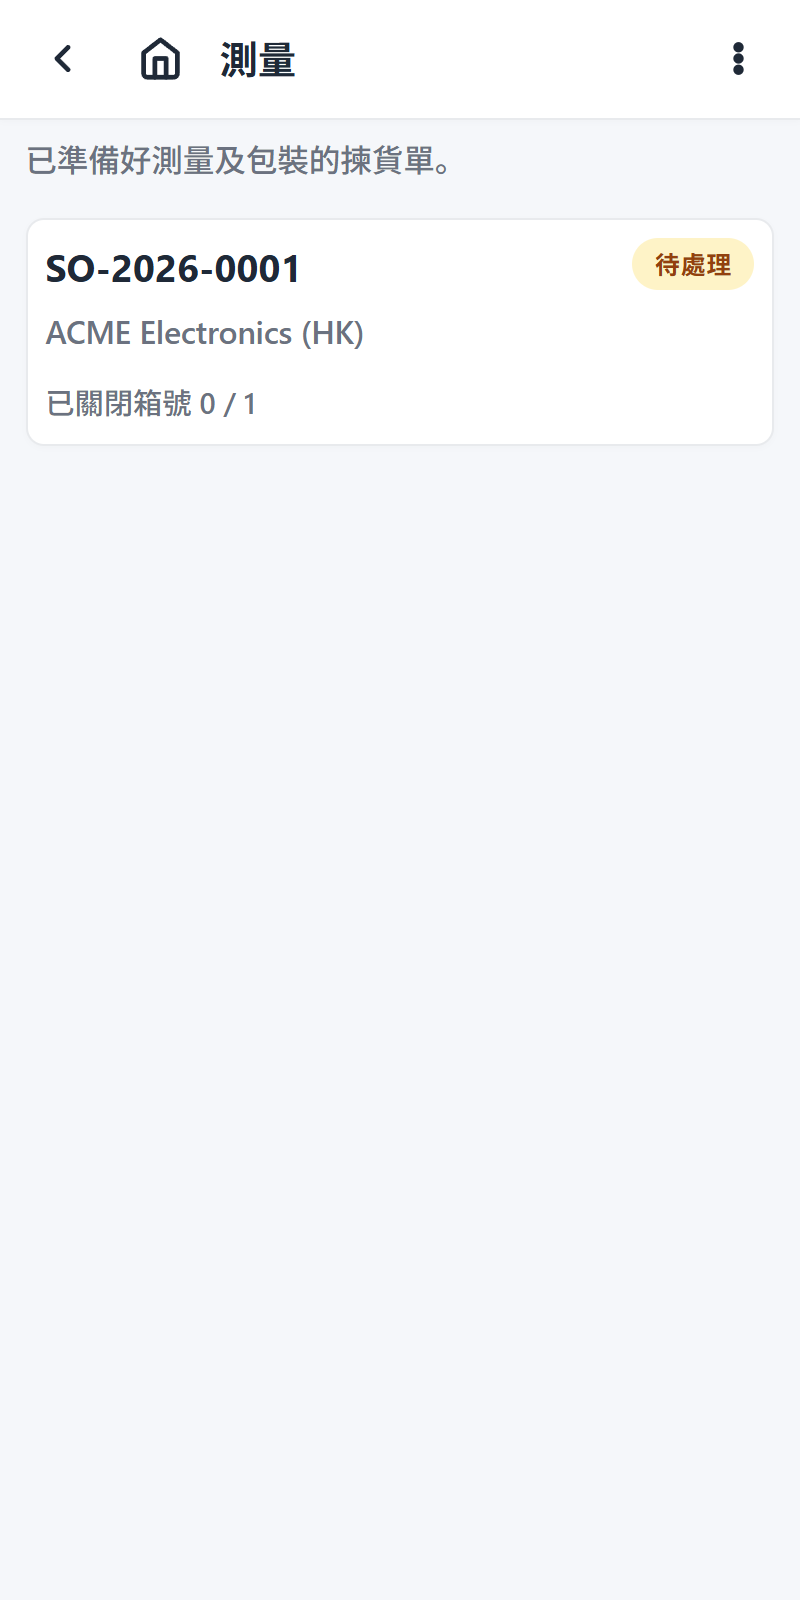
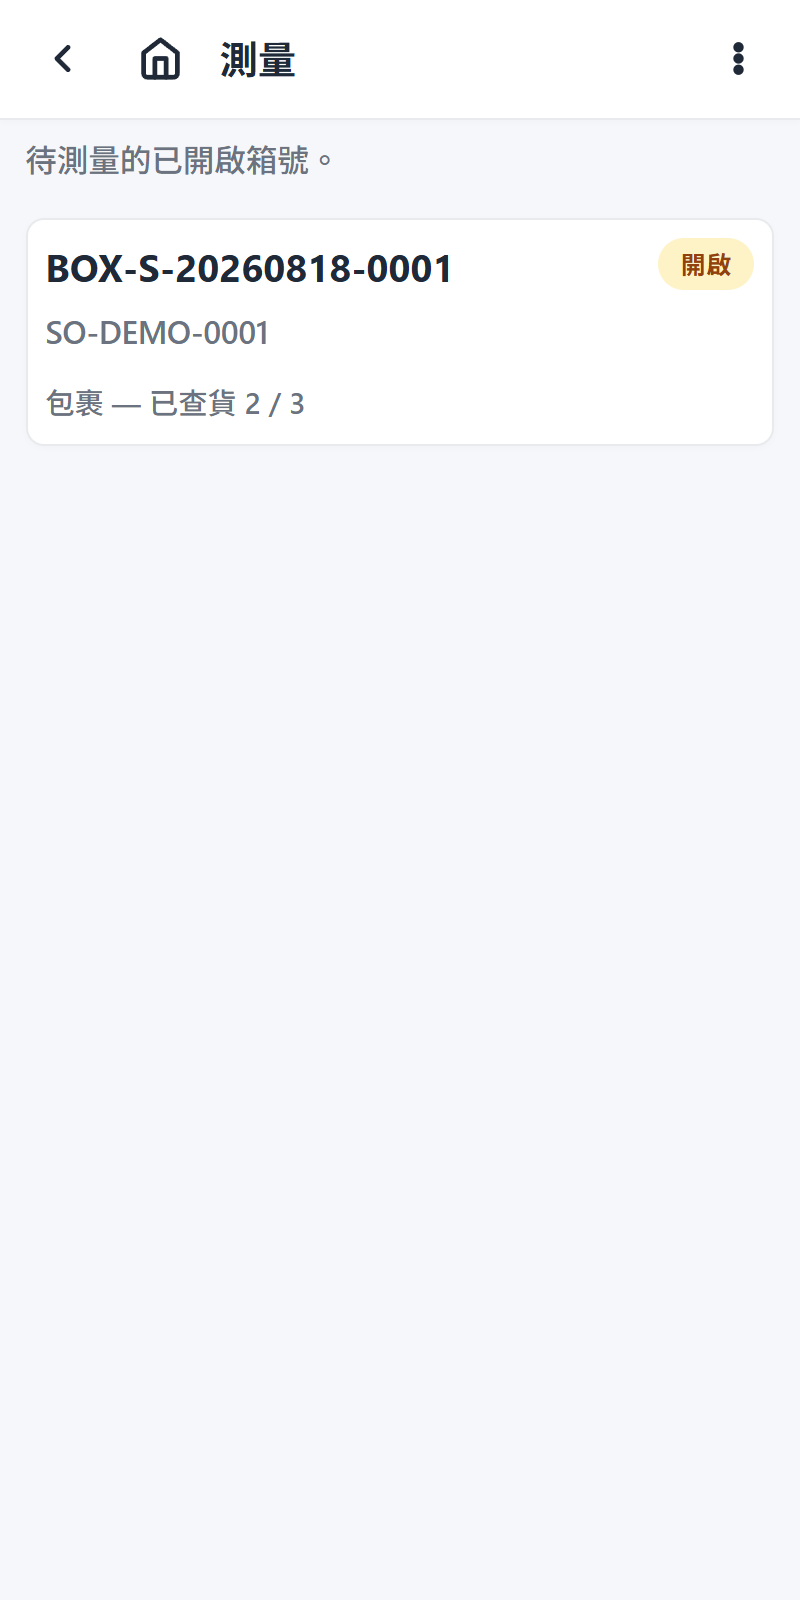
update doc

Changed region(s): [[0.0625, 0.1562, 0.5625, 0.2812], [0.0312, 0.0938, 0.5625, 0.125], [0.7812, 0.125, 0.9062, 0.1875]]

diff --git a/docs/app-docs/user-menu/user-menu-zh-HK.html b/docs/app-docs/user-menu/user-menu-zh-HK.html
@@ -183,11 +183,13 @@ li { margin: 0.3em 0; }
 <h2>覆核</h2>
 <p>覆核是測量之後的第二次檢查：另一位同事重新掃描已封箱內的每個項目，確認無誤後該箱才可出貨。</p>
 <h3>覆核列表</h3>
+<figure><img alt="覆核列表" src="./assets/verify-list.png"><figcaption>覆核列表</figcaption></figure>
 <ul>
 <li>列出有待覆核任務的<strong>運輸箱</strong> — 箱號關閉後，覆核任務會自動在此出現（每箱一個任務）。</li>
 <li>每張卡片顯示箱號、狀態、相關單號、目的地及包裹覆核進度；點按卡片開啟覆核箱號頁。</li>
 </ul>
 <h3>覆核箱號頁</h3>
+<figure><img alt="覆核箱號頁" src="./assets/verify-box.png"><figcaption>覆核箱號頁</figcaption></figure>
 <ul>
 <li>與測量箱號頁相同：表格列出箱內每個包裹。</li>
 <li>掃描包裹 QR code 逐件重新核對料件 — <strong>已關閉（已封箱）的箱也可直接掃描核對</strong>，無需開箱；每行的<strong>掃描</strong>按鈕是相機 OCR 的後備方式。</li>

diff --git a/docs/app-docs/flows/measuring/steps.md b/docs/app-docs/flows/measuring/steps.md
@@ -14,6 +14,8 @@ Tap the box to open its page — or scan the box's QR code (or type its box id o
 
 The box page lists the box's packages in a table. Scan each package's QR label with the hardware scanner — a matching package is verified immediately and its row flips to **Verified**. The per-row **Scan** button (camera OCR with review) is the fallback for labels the QR parser cannot handle.
 
+![Measuring box page](./assets/measuring-box.png)
+
 ## 4. Record measurements and confirm
 
 When every package is verified, the measurements form opens automatically (or tap **Enter measurements**). Enter box size, net/gross weight in **kg** (decimals allowed — the net weight is pre-filled with the auto-calculated value from the part net-weight master; adjust it if needed), and destination country, then **Confirm box** to save and close the box in one action. See [Box measurements](./box-measurements.md).

diff --git a/docs/app-docs/flows/verify/overview.md b/docs/app-docs/flows/verify/overview.md
@@ -9,6 +9,8 @@ Use the Verify flow when a box has been measured and closed and a verify task wa
 ## Concept
 
 1. The operator opens the Verify list — boxes with a pending verify task. A box may contain packages from several picking orders (cross-order packing).
+
+   ![Verify list](./assets/verify-list.png)
 2. The operator selects a box — the page shows the box's packages with their re-scan progress and recorded measurements.
 3. If the box needs correction, the operator taps **Reopen** — the box opens and its packages must be re-scanned before it can be re-closed.
 4. On the box page (shared with measuring) the operator scans each package's QR label again to re-verify it — this works on the closed box (checking contents against the sealed box is the normal verify pass). Box size, weights (kg), and destination country can be edited while the box is open.

diff --git a/docs/app-docs/user-menu/index.md b/docs/app-docs/user-menu/index.md
@@ -199,10 +199,14 @@
 
 ### 覆核列表
 
+![覆核列表](./assets/verify-list.png)
+
 - 列出有待覆核任務的**運輸箱** — 箱號關閉後，覆核任務會自動在此出現（每箱一個任務）。
 - 每張卡片顯示箱號、狀態、相關單號、目的地及包裹覆核進度；點按卡片開啟覆核箱號頁。
 
 ### 覆核箱號頁
+
+![覆核箱號頁](./assets/verify-box.png)
 
 - 與測量箱號頁相同：表格列出箱內每個包裹。
 - 掃描包裹 QR code 逐件重新核對料件 — **已關閉（已封箱）的箱也可直接掃描核對**，無需開箱；每行的**掃描**按鈕是相機 OCR 的後備方式。

diff --git a/docs/app-docs/flows/verify/steps.md b/docs/app-docs/flows/verify/steps.md
@@ -4,9 +4,13 @@
 
 From the home screen, tap **Verify**. The list shows the boxes with a pending verify task (one task per box, created when the box was closed).
 
+![Verify list](./assets/verify-list.png)
+
 ## 2. Select a box
 
 Tap the box to open its page. The page shows the box's packages with their re-scan progress and recorded measurements — a box may hold packages from several picking orders.
+
+![Verify box page](./assets/verify-box.png)
 
 ## 3. Reopen the box if it needs correction
 
